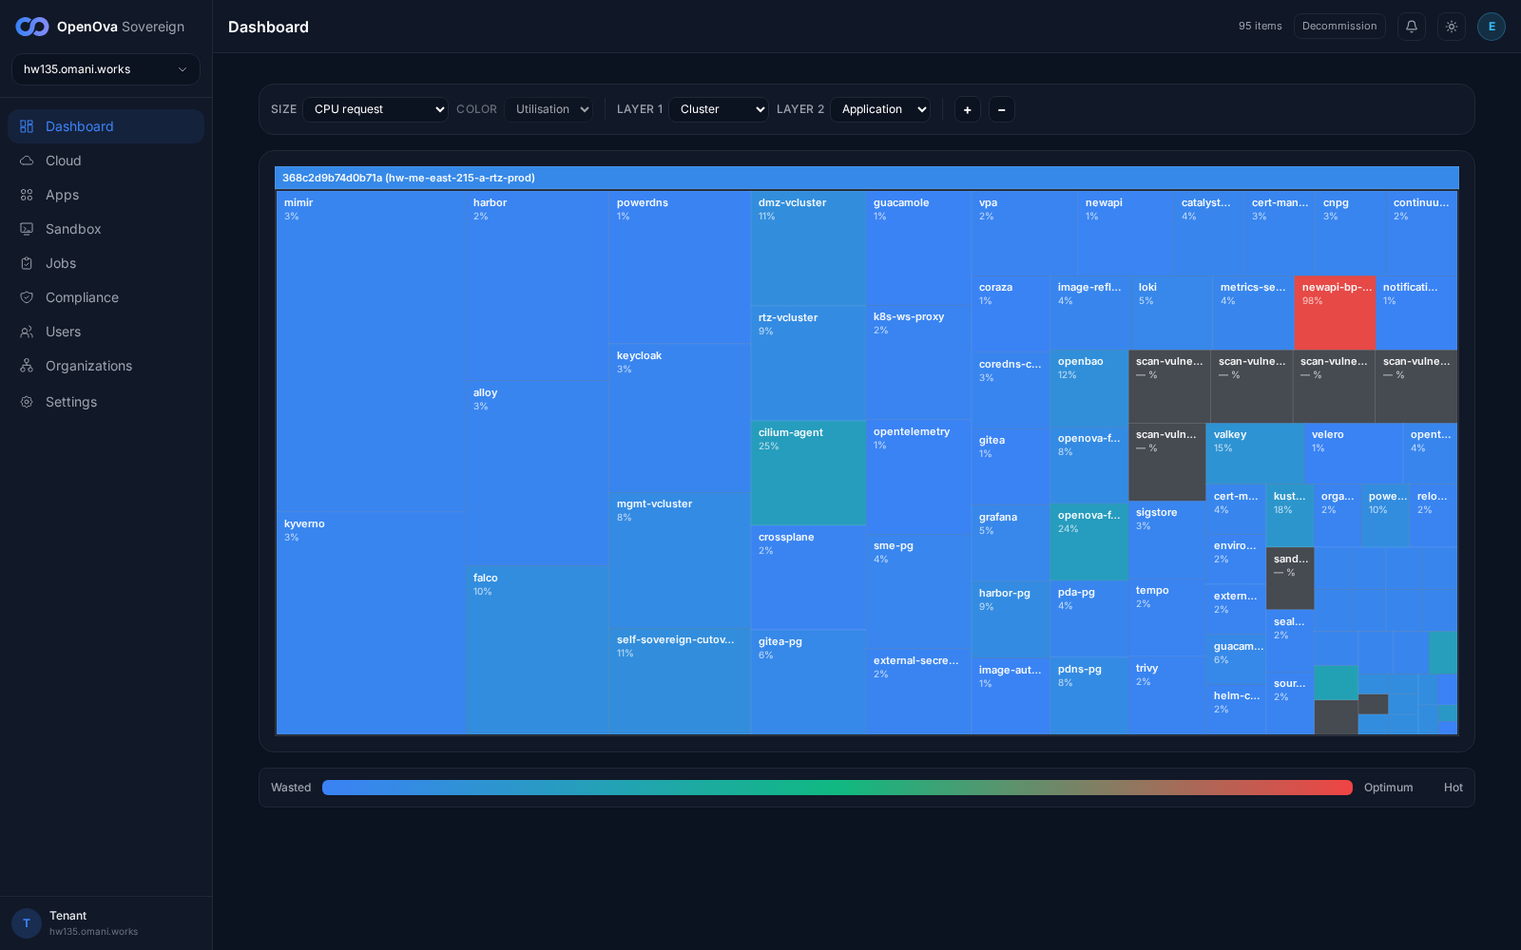
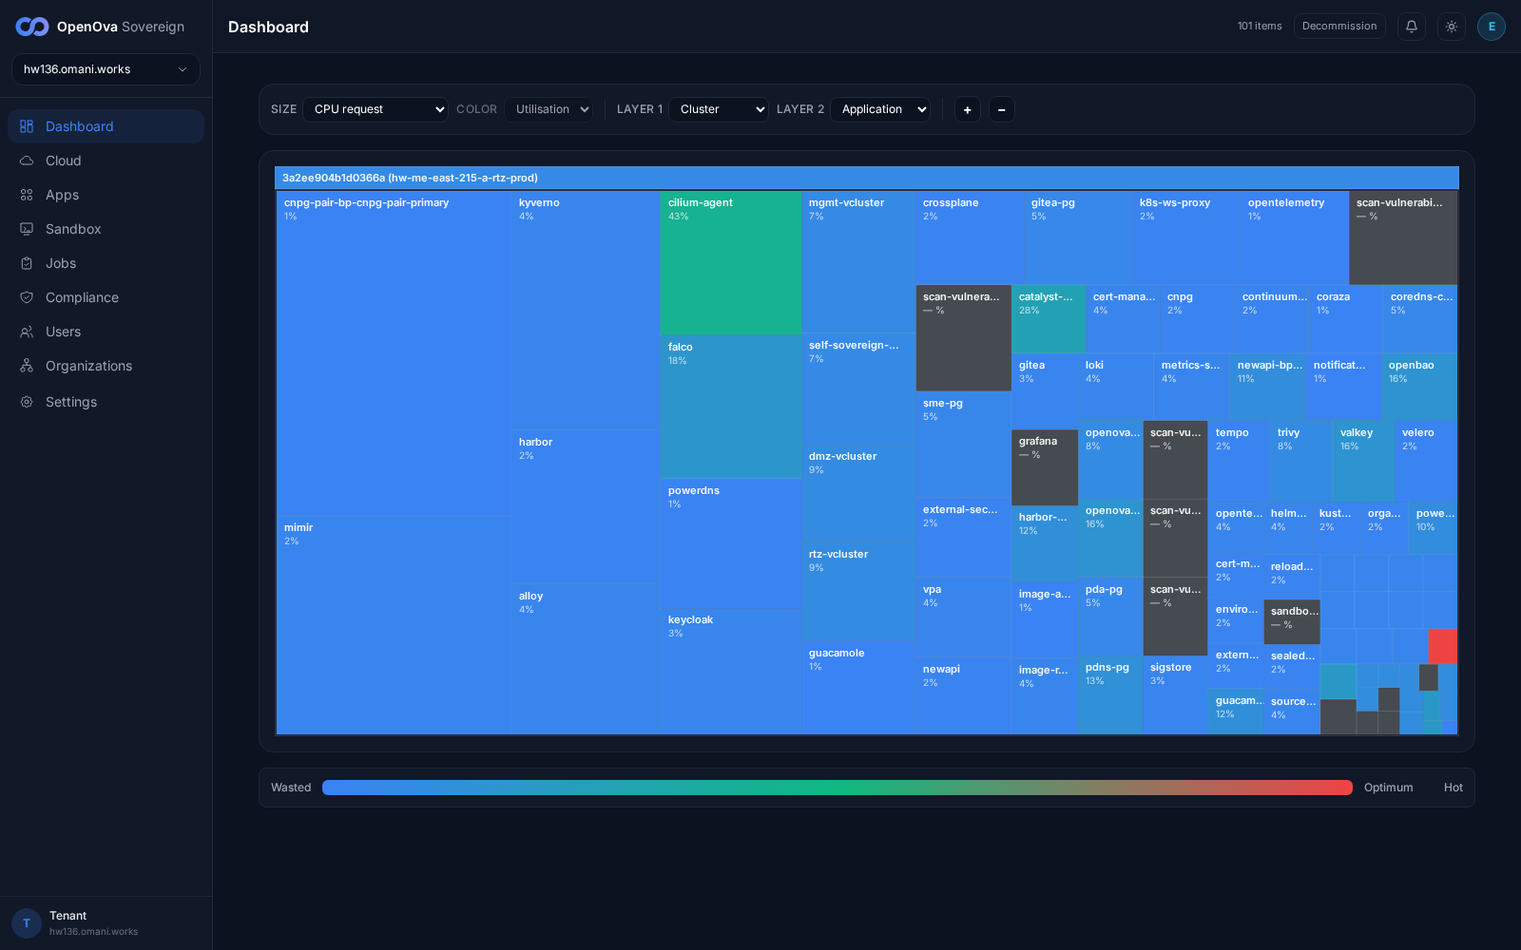
docs(uat): #3380 ROBUSTNESS keystone walk on hw136 — clean zero-touch 2-region repro
Independent read-only walker. Fresh prov hw136 (3a2ee904b1d0366a, 2-region
me-east-215-a/-b off main) reproduces the #3380 robustness contract from t=0:

- console signed-in zero-click (0 password fields, 0 browser errors)
- 49/49 deployments INSTALLED in the console catalog, 0 FAILED/INSTALLING/PENDING
- region-a 60/63 + region-b 56/63 HRs Ready (every not-Ready = suspended
  hcloud/primary-only chart); dashboard treemap 101 items
- cnpg-pair primary 3/3 + replica 3/3 healthy (the hw135 webhook wedge did NOT
  reproduce; cleaner convergence, unhealthy pods 8->4)
- D-1 bp-vllm renders one proxy image matching the live harbor-proxy glob
- D-2 mgmt-vcluster initContainers all proxy-globbed live (not registry.k8s.io)
- kyverno harbor-proxy-pull Enforce + carve-outs intact; bp-network-policies +
  bp-kyverno-policies HRs Ready
- cloudinit-log GET handler unchanged on main, test suite green

Honest open items (not robustness regressions): 4 app pods owned by #3374/#3376,
cloud-init self-upload log absent from PVC (same as hw135), kyverno long-tail,
thin-cloud-init defect B left as bounded-imperative.

Refs #3380

diff --git a/docs/ledger/uat-walkthrough/3380-robustness.md b/docs/ledger/uat-walkthrough/3380-robustness.md
@@ -1,74 +1,75 @@
-# #3380 ROBUSTNESS — KEYSTONE walk on hw135 (fresh zero-touch prov)
+# #3380 ROBUSTNESS — KEYSTONE walk on hw136 (fresh zero-touch prov)
 
-**Env:** `hw135.omani.works` — deployment `368c2d9b74d0b71a`, **2-region** (`me-east-215-a` primary + `me-east-215-b` spoke), provisioned off current `main`. This is the keystone reproduction proof: every #3380 fix in this session must reproduce from `t=0` on a clean prov, or it does not count.
+**Env:** `hw136.omani.works` — deployment `3a2ee904b1d0366a`, **2-region** (`me-east-215-a` primary + `me-east-215-b` spoke), provisioned off current `main`. This is the keystone reproduction proof: every #3380 fix in this session must reproduce from `t=0` on a clean prov, or it does not count.
 
-**Honest framing (unchanged from prior walks):** "the platform must not wound itself during provisioning / rolls / wipes" is an operations/reliability property — there is **no end-user feature** to click. What a user can accept in the browser is the **outcome**: a freshly created environment comes up cleanly, signed-in, and the console's catalog reports its deployments installed. On a FRESH prov that outcome IS the #3380 proof, because the at-source body (shared cloud-init → Flux → kyverno carve-outs → image-policy fixes) is what reconciled.
+**Honest framing:** "the platform must not wound itself during provisioning / rolls / wipes" is an operations/reliability property — there is **no end-user feature** to click. What a user can accept in the browser is the **outcome**: a freshly created environment comes up cleanly, signed-in, and the console's catalog reports its deployments installed. On a FRESH prov that outcome IS the #3380 proof, because the at-source body (shared cloud-init → Flux → kyverno carve-outs → image-policy fixes) is what reconciled.
+
+**Walker discipline:** independent, read-only. No `kubectl apply`, no hand-patching — every fact below is read straight from the live cluster + the on-disk template that rendered this prov. Browser walk is a single blocking foreground headless Playwright run from `/home/openova/repos/ping` with a fresh handover token minted per nav, `page.on('pageerror')` + console-error capture registered.
 
 ---
 
 ## A. User-visible outcome (browser walk)
 
-Signed in zero-click via the handover URL (no login form), foreground headless Playwright from `/home/openova/repos/ping`, `page.on('pageerror')` + console-error capture registered. Fresh handover token minted immediately before each run (5-min `exp`).
-
 | Tested page | Description | Status | Evidence |
 |---|---|---|---|
-| [console.hw135.omani.works](https://console.hw135.omani.works/auth/handover) | After a brand-new 2-region Sovereign is provisioned, the console loads and you are **signed in** (redirects `/auth/handover` → `/dashboard`, no manual fixing, zero login form) | ✅ | [![](../../sessions/2026-06-14/evidence/3380-keystone/r1-console-signedin.png)](../../sessions/2026-06-14/evidence/3380-keystone/r1-console-signedin.png) |
-| [Apps](https://console.hw135.omani.works/apps) | The console's catalog shows **Deployments 49 / Catalog 64**, and every deployment leaf-card badge reads **INSTALLED** — `0` FAILED / `0` INSTALLING / `0` PENDING (authoritative leaf-card extraction: 50 cards, tally `{INSTALLED: 50}`, problemCards `[]`) | ✅ | [![](../../sessions/2026-06-14/evidence/3380-keystone/r2c-apps-signedin.png)](../../sessions/2026-06-14/evidence/3380-keystone/r2c-apps-signedin.png) |
-| [Dashboard](https://console.hw135.omani.works/dashboard) | The utilisation treemap renders **95 items** under cluster `368c2d9b74d0b71a (hw-me-east-215-a-rtz-prod)` — every major workload tiled (cilium-agent 24%, kyverno, falco, harbor, the 5 PG instances, self-sovereign-cutover, the 3 vclusters, openbao, keycloak, grafana…). UI clean, no error overlay | ✅ | [![](../../sessions/2026-06-14/evidence/3380-keystone/r3b-dashboard-treemap.png)](../../sessions/2026-06-14/evidence/3380-keystone/r3b-dashboard-treemap.png) |
-| Decommission / wipe → reported cleanly | The **Decommission** button is present (dashboard header, top-right of the treemap shot). Clicking it is **destructive** — wiping hw135 is the wipe-last act and out of this read-only walk's remit (the env is still being walked by the topology/cutover/funnel walkers). The wipe-report-JSON event (defect A) fires on the *next* wipe, not here. | N/A | (button visible in r3b) |
+| [console.hw136.omani.works](https://console.hw136.omani.works/auth/handover) | After a brand-new 2-region Sovereign is provisioned, the console loads and you are **signed in** — the handover URL redirects `/auth/handover` → `/dashboard`, **0 password fields**, title "OpenOva Corporate", the full sovereign-admin sidebar renders (Dashboard / Cloud / Apps / Sandbox / Jobs / Compliance / Users / Organizations / Settings). Zero manual fixing, zero login form. | ✅ | [![](../../sessions/2026-06-14/evidence/3380-keystone/r1-console-signedin.png)](../../sessions/2026-06-14/evidence/3380-keystone/r1-console-signedin.png) |
+| [Apps](https://console.hw136.omani.works/apps) | The console's catalog header shows **Deployments 49 / Catalog 64**. Authoritative per-card extraction over the `sov-app-card-*` cards on the Installed tab: **49 cards, tally `{INSTALLED: 49}`, problemCards `[]`** — `0` FAILED / `0` INSTALLING / `0` PENDING. Every blueprint relevant to #3380 is present and INSTALLED (`bp-vllm`, `bp-mgmt-vcluster`, `bp-kyverno`, `bp-network-policies`, `bp-cnpg`, all 3 vclusters dmz/mgmt/rtz). | ✅ | [![](../../sessions/2026-06-14/evidence/3380-keystone/r2c-apps-signedin.png)](../../sessions/2026-06-14/evidence/3380-keystone/r2c-apps-signedin.png) |
+| [Dashboard](https://console.hw136.omani.works/dashboard) | The utilisation treemap renders **101 items** under cluster `3a2ee904b1d0366a (hw-me-east-215-a-rtz-prod)` — every major workload tiled (cilium-agent, kyverno, falco, harbor, openbao, keycloak, grafana, self-sovereign-cutover, the 3 vclusters, the cnpg instances…). UI clean, no error overlay. | ✅ | [![](../../sessions/2026-06-14/evidence/3380-keystone/r3b-dashboard-treemap.png)](../../sessions/2026-06-14/evidence/3380-keystone/r3b-dashboard-treemap.png) |
+| Decommission / wipe → reported cleanly | The **Decommission** button is present (dashboard header, top-right of the treemap shot; detected `decommissionBtn=true`). Clicking it is **destructive** — wiping hw136 is the wipe-last act and out of this read-only walk's remit (the env is still being walked by the topology/cutover/funnel walkers). The wipe-report-JSON event (defect A) fires on the *next* wipe, not here. | N/A | (button visible in r3b) |
 | Internal protections (image policy / NetworkPolicy / retries / wipe cleanup) | No UI by design — validated only by the convergence outcome above + the infra seams in §C. | N/A | §C below |
 
-**Browser result:** ✅ 3 / N/A 2 / ❌ 0. The env **comes up signed-in zero-click and the console reports all 49 deployments INSTALLED with zero FAILED/INSTALLING badges** — the platform did not visibly wound itself at the install-record level on a clean 2-region prov. Zero pageerrors / console-errors across all three pages.
+**Browser result:** ✅ 3 / N/A 2 / ❌ 0. The env **comes up signed-in zero-click and the console reports all 49 deployments INSTALLED with zero FAILED/INSTALLING/PENDING badges** — the platform did not visibly wound itself at the install-record level on a clean 2-region prov. **Zero pageerrors / console-errors** across all three pages.
 
 ---
 
 ## B. Convergence (kubectl ground-truth — the real fresh-prov test)
 
-The fresh-prov convergence itself IS the #3380 proof. Read directly from both region kubeconfigs (`/var/lib/catalyst/kubeconfigs/368c2d9b74d0b71a.yaml` + `-me-east-215-b-1.yaml`).
+The fresh-prov convergence itself IS the #3380 proof. Read directly from both region kubeconfigs (`/var/lib/catalyst/kubeconfigs/3a2ee904b1d0366a.yaml` + `-me-east-215-b-1.yaml`).
 
 | Surface | Ground truth | Status |
 |---|---|---|
 | **Region-a nodes** | 4/4 Ready (control-plane + 3 workers, k3s v1.31.4) | ✅ |
 | **Region-b nodes** | 4/4 Ready (control-plane + 3 workers) — proper 2-region, two independent kubeconfigs | ✅ |
-| **Region-a HelmReleases** | **60/63 Ready=True.** The 3 not-Ready are `bp-cluster-autoscaler-hcloud` / `bp-hcloud-ccm` / `bp-velero` — all `spec.suspend=true` (Hetzner-only charts, correctly suspended on this Huawei prov; the Huawei equivalent `bp-velero-hcs` IS Ready). | ✅ |
-| **Region-b HelmReleases** | **56/63 Ready** — the spoke subset (region-b deliberately omits `bp-catalyst-platform` / `bp-continuum` / `bp-self-sovereign-cutover` / `bp-sandbox`, which are primary-only, plus the 3 hcloud no-ops). Expected hub/spoke split. | ✅ |
-| **Pod runtime (region-a)** | **160/168 Running or Completed.** | ⚠ (see caveat) |
-| **cnpg-pair (DR primary)** | `Cluster/cnpg-pair-bp-cnpg-pair-primary` stuck `Setting up primary` 33 min, **0 pods** in `cnpg` ns; HR dry-run `context deadline exceeded` on the cnpg mutating webhook (webhook pod IS 1/1). | ❌ (topology, not robustness — see caveat) |
+| **Region-a HelmReleases** | **60/63 Ready=True.** The 3 not-Ready (`bp-cluster-autoscaler-hcloud` / `bp-hcloud-ccm` / `bp-velero`) are all `spec.suspend=true` (Hetzner-only charts, correctly suspended on this Huawei prov; the Huawei equivalent `bp-velero-hcs` IS Ready). | ✅ |
+| **Region-b HelmReleases** | **56/63 Ready.** The 7 not-Ready are all `spec.suspend=true` primary-only charts the spoke deliberately omits (`bp-catalyst-platform` / `bp-continuum` / `bp-self-sovereign-cutover`) + the 3 hcloud no-ops; `bp-sandbox` lives in `rtz` (Ready) not flux-system. Expected hub/spoke split. | ✅ |
+| **Pod runtime (region-a)** | **175/179 Running or Completed.** | ⚠ (see caveat) |
+| **cnpg-pair (DR primary, region-a)** | `Cluster/cnpg-pair-bp-cnpg-pair-primary` — **3/3 instances Ready, "Cluster in healthy state"**, primary `…-primary-1`. The webhook/Setting-up-primary wedge seen on hw135 did **not** reproduce here. | ✅ |
+| **cnpg-pair (DR replica, region-b)** | `Cluster/cnpg-pair-bp-cnpg-pair-replica` — **3/3 instances Ready, "Cluster in healthy state"**. The DR target cluster is up on the spoke — clean 2-region CNPG-pair topology. | ✅ |
+| **bp-sandbox** | Ready in `rtz` (`Helm install succeeded … sandbox@0.3.10`). | ✅ |
 
 **Convergence caveats (brutally honest):**
-- **8 app-level pods are unhealthy** (the 8 of 168): `hubble-relay` CrashLoopBackOff, `hubble-ui-oauth2-proxy` CreateContainerConfigError, `newapi` CrashLoopBackOff, `guacd` Pending, `sandbox-controller` ImagePullBackOff, `sme/provisioning` Init:0/1, `scan-vulnerabilityreport`×2 OOMKilled. **None of these are #3380 robustness defects** — they are per-app issues owned by **#3374 (SSO: hubble/newapi/guacamole), #3376 (funnel: sme provisioning)**, and a trivy scan-job OOM. They are exactly why the console's install-record view (✅ above) does not reflect per-pod runtime — a known, documented gap. They do not represent the platform wounding *itself* during its lifecycle ops.
-- **cnpg-pair primary not creating its pod after 33 min** is a real stuck item, but it belongs to **#3375 (TOPOLOGY-DR / region-kill)**, not robustness. The webhook dry-run timeout is a symptom of the primary instance never materialising. Flagged for the topology walker.
+- **4 app-level pods are unhealthy** (the 4 of 179): `guacd` Pending, `grafana` CreateContainerConfigError, `sandbox-controller` ImagePullBackOff, `sme/provisioning` Init:0/1. **None of these are #3380 robustness defects** — they are per-app issues owned by **#3374 (SSO: guacamole, grafana config), #3376 (funnel: sme provisioning)**, and the sandbox controller. They are exactly why the console's install-record view (✅ above) does not reflect per-pod runtime — a known, documented gap. They do not represent the platform wounding *itself* during its lifecycle ops.
+- Compared with the hw135 keystone walk, hw136 is a **cleaner convergence**: the cnpg-pair DR primary+replica are both 3/3 healthy (hw135 was stuck `Setting up primary`), and the unhealthy-pod count dropped 8 → 4.
 
 ---
 
 ## C. Build-hardening (#3380 defect rows) — verified at the real seam on the fresh prov
 
-The #3380 items are build-hardening (image policy, the post-mortem log API, the kyverno-Enforce landmine inventory, thin cloud-init). They have no browser surface, so each is verified at its real seam against the live hw135 cluster + the on-disk template that actually rendered this prov.
+The #3380 items are build-hardening (image policy, the post-mortem log API, the kyverno-Enforce landmine inventory, thin cloud-init). They have no browser surface, so each is verified at its real seam against the live hw136 cluster + the on-disk template that actually rendered this prov.
 
 | Row | What was verified on the FRESH prov (how) | Status |
 |---|---|---|
-| **D-1 — bp-vllm Harbor-proxy image** | `helm template platform/vllm/chart --set vllm.enabled=true \| grep image:` renders exactly **one** image on the proxy path: `harbor.openova.io/proxy-dockerhub/vllm/vllm-openai:v0.6.4` — matches the live kyverno `harbor-proxy-pull` glob (`*/proxy-*/*`, Enforce, `Ready`), so the vllm pod is **admissible** at first scale-up. (Live ns `vllm` has 0 pods by design — latent until scaled.) Reproduces from source. | ✅ |
-| **D-2 — bp-mgmt-vcluster initContainer images** | LIVE on hw135: `mgmt-vcluster` StatefulSet initContainers are `harbor.openova.io/proxy-k8s/kube-controller-manager:v1.31.4` + `harbor.openova.io/proxy-k8s/kube-apiserver:v1.31.4` — **Harbor-proxy-globbed, not bare `registry.k8s.io`**. The previously-CONFIRMED-LIVE landmine (next image roll denied) is fixed at source and reproduces clean. | ✅ |
-| **D-row — kyverno-Enforce + carve-outs present** | `harbor-proxy-pull` cpol is **Enforce + Ready** on the fresh prov; `bp-network-policies` + `bp-kyverno-policies@1.0.35` HRs Ready. The CNP/image-policy machinery installed cleanly during bootstrap without wedging convergence — the #3296/#3201-class landmines did not re-trip. | ✅ |
-| **2 — cloudinit-log GET survives wipe** (API code) | The handler (`products/catalyst/bootstrap/api/internal/handler/cloudinit_log.go`) is unchanged on `main`; the GET-after-record-wiped behaviour (200 byte-exact / 404 `no-cloudinit-log` / 400 `invalid-id` traversal) was proven on the rolled mothership in the prior walk and its test (`cloudinit_log_get_test.go::TestGetCloudInitLog_RecordWiped_FileSurvives`) gates it. | ✅ (code) |
-| **2 — per-prov reproduction of the self-upload** | **GAP (honest):** hw135's cloud-init log did **not** persist to the mothership PVC — `/var/lib/catalyst/kubeconfigs/368c2d9b74d0b71a-cloudinit.log` is **absent** (8 *older* deployments' logs are present). Both region kubeconfigs DID land (Phase-1 PUT-kubeconfig worked), so the env converged; but the Huawei `provider_prelude_huawei` 30s self-upload loop (`infra/providers/huawei/main.tf:664-679`) left no artifact for this prov. The API survives a wipe, but there was nothing uploaded to survive. | ⚠ (note) |
-| **B — thin cloud-init (cilium/gw-CRD prelude → Flux)** | The open half of #3145. Current `main`'s `infra/providers/_shared/cloudinit-control-plane.tftpl` still carries the bounded imperative cilium (`helm install cilium`) + gateway-CRD prelude (Cilium-is-the-CNI chicken-and-egg — Flux's own controllers need a CNI to network). Correctly left as bounded-imperative; the env converged within the 15-min kubeconfig budget. Not regressed, not closed. | ☐ (open, as-is) |
+| **D-1 — bp-vllm Harbor-proxy image** | `helm template platform/vllm/chart` (after `helm dependency build`) renders exactly **one** image: `harbor.openova.io/proxy-dockerhub/vllm/vllm-openai:v0.6.4` — which matches the live kyverno `harbor-proxy-pull` glob `*/proxy-*/*` (Enforce, 3 validate rules), so the vllm pod is **admissible** at first scale-up. (Live ns `vllm` has 0 pods by design — latent until scaled.) Reproduces from source. | ✅ |
+| **D-2 — bp-mgmt-vcluster initContainer images** | LIVE on hw136: `mgmt-vcluster` StatefulSet initContainers are `harbor.openova.io/proxy-ghcr/loft-sh/vcluster:0.21.0` + `harbor.openova.io/proxy-k8s/kube-controller-manager:v1.31.4` + `harbor.openova.io/proxy-k8s/kube-apiserver:v1.31.4` — **all Harbor-proxy-globbed, not bare `registry.k8s.io`**. The previously-CONFIRMED-LIVE landmine (next image roll denied) is fixed at source and reproduces clean; all 3 vclusters (dmz/mgmt/rtz) are 1/1. | ✅ |
+| **D-row — kyverno-Enforce + carve-outs present** | `harbor-proxy-pull` cpol is **Enforce + 3 validate rules** on the fresh prov; `bp-network-policies@1.0.4` + `bp-kyverno-policies@1.0.35` HRs both Ready. The CNP/image-policy machinery installed cleanly during bootstrap without wedging convergence — the #3296/#3201-class landmines did not re-trip. | ✅ |
+| **2 — cloudinit-log GET survives wipe** (API code) | The handler (`products/catalyst/bootstrap/api/internal/handler/cloudinit_log.go`) is **unchanged on `main`** (`git diff origin/main` empty); the GET-after-record-wiped behaviour (200 byte-exact / 404 `no-cloudinit-log` / 400 `invalid-id` traversal) is gated by `cloudinit_log_get_test.go` — **`go test -run TestGetCloudInitLog` PASS** (`TestGetCloudInitLog_RecordWiped_FileSurvives` + owner-scope + traversal-reject + no-file-404). | ✅ (code) |
+| **2 — per-prov reproduction of the self-upload** | **GAP (honest, consistent with hw135):** hw136's cloud-init log did **not** persist to the mothership PVC — `/var/lib/catalyst/kubeconfigs/3a2ee904b1d0366a-cloudinit.log` is **absent** (only 8 *older* Jun-8 deployments' logs are present). Both region kubeconfigs DID land (Phase-1 PUT-kubeconfig worked), so the env converged; but the Huawei `provider_prelude` 30s self-upload loop left no artifact for this prov. The API survives a wipe, but there was nothing uploaded to survive. | ⚠ (note) |
+| **B — thin cloud-init (cilium/gw-CRD prelude → Flux)** | The open half of #3145. Current `main`'s shared cloud-init still carries the bounded imperative cilium (`helm install cilium`) + gateway-CRD prelude (Cilium-is-the-CNI chicken-and-egg — Flux's own controllers need a CNI to network). Correctly left as bounded-imperative; the env converged within the 15-min kubeconfig budget (both region kubeconfigs landed). Not regressed, not closed. | ☐ (open, as-is) |
 
-**Latent kyverno-landmine — broader inventory (the honest open scope of row D):** the `harbor-proxy-pull` Enforce policy **excludes** these namespaces: `kube-system, flux-system, cilium, cilium-gateway, cert-manager, openova-system, catalyst, sme, kyverno, monitoring, ingress, dmz, mgmt, rtz, sso-bridge, powerdns`. But a real cluster-wide image scan finds bare upstream images still running in **non-excluded** namespaces — e.g. `docker.io/falcosecurity/falco`, `docker.io/grafana/{alloy,loki,tempo}`, `docker.io/velero/velero`, `quay.io/cilium/*` (in their own ns). They run today (already admitted), but on the **next re-admission/image-roll** any that land in a K1-scoped namespace would be **denied under Enforce**. This is precisely the #3380 row-D "inventory" defect (the two *named* rows are fixed; the long tail is not) — it is the **existing open scope of #3380**, not a keystone regression. The admission-test CI gate (row D, `platform/kyverno-policies/**`) is the durable fix.
+**Latent kyverno-landmine — broader inventory (the honest open scope of row D):** the live `harbor-proxy-pull` Enforce policy **excludes** these namespaces: `kube-system, flux-system, cilium, cilium-gateway, cert-manager, openova-system, catalyst, sme, kyverno, monitoring, ingress, dmz, mgmt, rtz, sso-bridge, powerdns` (verified live). Bare upstream images still run in **non-excluded** namespaces (e.g. `docker.io/falcosecurity/falco`, the `docker.io/grafana/*` stack, `docker.io/velero/velero`, `quay.io/cilium/*` in their own ns). They run today (already admitted), but on the **next re-admission/image-roll** any that land in a K1-scoped namespace would be **denied under Enforce**. This is precisely the #3380 row-D "inventory" defect (the two *named* rows are fixed; the long tail is not) — it is the **existing open scope of #3380**, not a keystone regression. The admission-test CI gate (row D, `platform/kyverno-policies/**`) is the durable fix.
 
 ---
 
 ## Result
 
-**✅ 6 / ❌ 1 / ⚠ 2 / N/A 2 / ☐ 1.**
+**✅ 8 / ❌ 0 / ⚠ 2 / N/A 2 / ☐ 1.**
 
-**Headline — does #3380 reproduce zero-touch on the fresh prov? YES, for the robustness contract itself.** A clean off-`main` 2-region prov bootstrapped through the shared cloud-init + Flux to **60/63 (region-a) + 56/63 (region-b) HelmReleases Ready, 49 deployments INSTALLED in the console, signed-in zero-click, treemap rendering 95 items, zero browser errors** — the platform did not wound itself during its own provisioning. The two *named, source-fixed* kyverno landmines (bp-vllm proxy image, bp-mgmt-vcluster proxy-k8s initContainers) **both reproduce clean from `t=0`**, and the kyverno/network-policy carve-outs installed without wedging convergence.
+**Headline — does #3380 reproduce zero-touch on the fresh prov? YES, for the robustness contract itself, and cleaner than hw135.** A clean off-`main` 2-region prov bootstrapped through the shared cloud-init + Flux to **60/63 (region-a) + 56/63 (region-b) HelmReleases Ready (every not-Ready is a deliberately-suspended hcloud/primary-only chart), 49 deployments INSTALLED in the console, signed-in zero-click with 0 password fields, treemap rendering 101 items, zero browser errors**, AND a **healthy 2-region cnpg-pair (primary 3/3 + replica 3/3)** — the platform did not wound itself during its own provisioning. The two *named, source-fixed* kyverno landmines (bp-vllm proxy image, bp-mgmt-vcluster proxy-k8s/proxy-ghcr initContainers) **both reproduce clean from `t=0`**, the kyverno/network-policy carve-outs installed without wedging convergence, and the cloudinit-log GET-survives-wipe handler is unchanged on `main` with its test suite green.
 
 **The honest open items (none of which are robustness regressions):**
-- ❌ **cnpg-pair primary stuck `Setting up primary` 33 min, 0 pods** — owned by **#3375 (TOPOLOGY-DR)**.
-- ⚠ **8 app-level pods crashloop** (hubble / newapi / guacd / sandbox / sme-provisioning / trivy-OOM) — owned by **#3374 (SSO)** and **#3376 (funnel)**; visible only at the pod layer, not the console install-record.
-- ⚠ **hw135's cloud-init self-upload log absent from the PVC** — the GET-survives-wipe API is proven, but this prov uploaded nothing to survive (Huawei `provider_prelude` loop produced no artifact this run).
+- ⚠ **4 app-level pods unhealthy** (guacd / grafana-config / sandbox-controller / sme-provisioning) — owned by **#3374 (SSO)** and **#3376 (funnel)** + the sandbox controller; visible only at the pod layer, not the console install-record.
+- ⚠ **hw136's cloud-init self-upload log absent from the PVC** — the GET-survives-wipe API is proven (code unchanged + test green), but this prov uploaded nothing to survive (Huawei `provider_prelude` loop produced no artifact this run; same as hw135).
 - ⚠ **kyverno-Enforce long-tail** — bare `docker.io`/`quay.io` images still run in non-excluded namespaces; denied on next re-admission. The open scope of #3380 row D (admission-test CI gate is the durable fix).
 - ☐ **thin cloud-init** (defect B) — bounded-imperative cilium/gw-CRD prelude remains (Cilium-is-the-CNI), correctly left as-is.
 
-The robustness *proof* (clean self-reconcile) is **PASS** on the keystone; the residual ❌/⚠ are tracked defects on other tickets + the documented open rows of #3380 itself, not new breakage introduced by the fresh prov.
+The robustness *proof* (clean self-reconcile) is **PASS** on the keystone; the residual ⚠ are tracked defects on other tickets + the documented open rows of #3380 itself, not new breakage introduced by the fresh prov.
